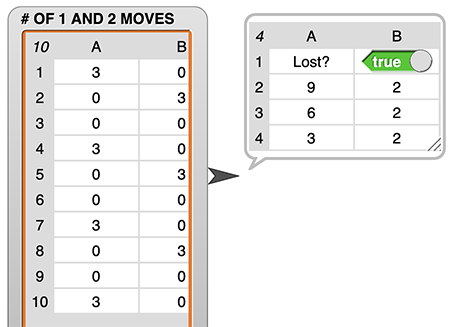
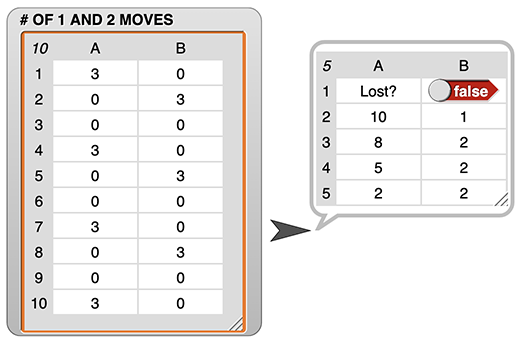
Sparks U4 - edits with Dan

diff --git a/sparks/student-pages/U4/L2/06-building-ML-project.html b/sparks/student-pages/U4/L2/06-building-ML-project.html
@@ -1,0 +1,36 @@
+<!DOCTYPE html>
+<html lang="en">
+    <head>
+        <meta charset="utf-8">
+        <script type="text/javascript" src="/bjc-r/llab/loader.js"></script>
+        <title>Unit 4 Lab 2: Supervised ML with Teachable Machine, Activity 5</title>
+    </head>
+
+    <body>
+        <h2>Building Your ML Project</h2>
+        <div class="learn">In this activity, you'll complete your AI project!</div>
+        <div class="todo">TODO: Do we need to have them set up the camera as we probably did in U1L4? --MF, 1/14/26</div>
+
+        <div class="forYouToDo">
+            <ol>
+                <li>
+                    Build your project!
+                    <div class="endnote">
+                        <p>One approach is have the program trigger different events depending on which image class is detected. Another is to use the probabilities directly in your code (For example, you could use it as the position, rotation amount, or volume.)</p>
+                        <div class="comment">from <a href="http://go.edc.org/Snap-teachable-machine-sample" title="" target="_blank">go.edc.org/Snap-teachable-machine-sample</a></div>
+                        <p>
+                            You may find it helpful to review the Snap<em>!</em> project from the example video shown on Activity 1 or to review <a href="#hint-example" data-toggle="collapse" title="example code that uses the model's prediction to decide whether to move the sprite up, to the right, or back to the lower left">this example code</a> that uses the model's prediction to decide whether to move the sprite up, to the right, or back to the lower left.
+                            <div id="hint-example" class="collapse"><p><img class="" src="/bjc-r/sparks/img/U4/lab02/teachable-machine-code.png" alt="" title="" /></p></div>
+                        </p>
+                    </div>
+                </li>
+                <li>Test your project with different input images, or have someone else test it out.</li>
+                <li>If needed, make improvements. You can even go back to Teachable Machine and re-train your model and get a new URL if you need to and have time.</li>
+            </ol>
+        </div>
+
+        <div class="learn">In this activity, you built a simple project to control the program by having the program detect images in front of the camera. </div>
+
+
+    </body>
+</html>

diff --git a/sparks/student-pages/U4/L1/03-discover-pattern.html b/sparks/student-pages/U4/L1/03-discover-pattern.html
@@ -37,12 +37,24 @@
         <div class="forYouToDo" style="clear: right;">
             <ol>
 				<li><img class="inline" src="/bjc-r/img/icons/take-turns-speaking-mini.gif" alt="Take turns speaking" title="Take turns speaking"> What if there were 4 coins left? Is that a winning position or a losing position?</li>
-				<li> What are the winning positions? What are the losing positions? Document which positions win and which positions lose. <br />
+				<li>When it's your turn, what are the winning positions? What are the losing positions? Document which positions win and which positions lose. <br />
+                    <div class="vocabBig">
+                        <p>
+                            Assuming both players play perfectly, 
+                            <ul>
+                                <li><strong>Win</strong> means it's a winning position; you will always win (by giving the other player a losing position).</li>
+                                <li><strong>Lose</strong> means it's a losing position; you will always lose (by giving the other player a winning position).</li>
+                            </ul>
+                        </p>
+                    <div class="todo">TG: Not all games allow for this kind of analysis...</div>
+
+                    </div>
+
                     <table class="bordered">
-                        <tr><th>Position</th><th>WIN or LOSE?</th></tr>
-                        <tr><td>1</td><td>WIN</td></tr>
-                        <tr><td>2</td><td>WIN</td></tr>
-                        <tr><td>3</td><td>LOSE</td></tr>
+                        <tr><th>Position</th><th>Win or Lose?</th></tr>
+                        <tr><td>1</td><td>Win</td></tr>
+                        <tr><td>2</td><td>Win</td></tr>
+                        <tr><td>3</td><td>Lose</td></tr>
                         <tr><td>4</td><td></td></tr>
                         <tr><td>5</td><td></td></tr>
                         <tr><td>6</td><td></td></tr>

diff --git a/sparks/student-pages/U4/L7/01-coin-game-rl.html b/sparks/student-pages/U4/L7/01-coin-game-rl.html
@@ -13,7 +13,7 @@
         <div class="forYouToDo">
             <ol>
                 <li>
-                    Explore this <a href="https://snap.berkeley.edu/snap/snap.html#present:Username=dan%20garcia&ProjectName=RL%20for%2010-to-0-by-1-or-2&editMode" title="Snap project: Reinforcement Learning version of the coin game" target="_blank">Reinforcement Learning version of the coin game</a>.<br />
+                    Explore this <a href="https://snap.berkeley.edu/snap/snap.html#present:Username=dan%20garcia&ProjectName=RL%20for%2010-to-0-by-1-or-2&editMode" title="Snap project: reinforcement learning version of the coin game" target="_blank">reinforcement learning version of the coin game</a>.<br />
                     <img class="indent noshadow" src="/bjc-r/sparks/img/U4/lab07/rl-coin-game-stage.png" alt="" title="" />
                 </li>
             </ol>